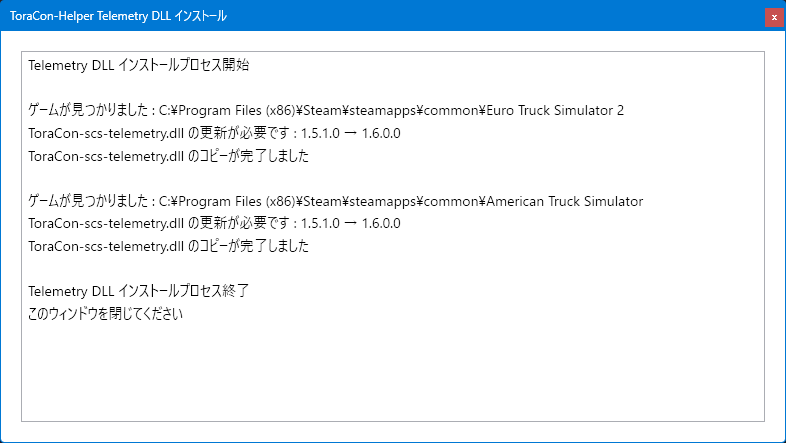
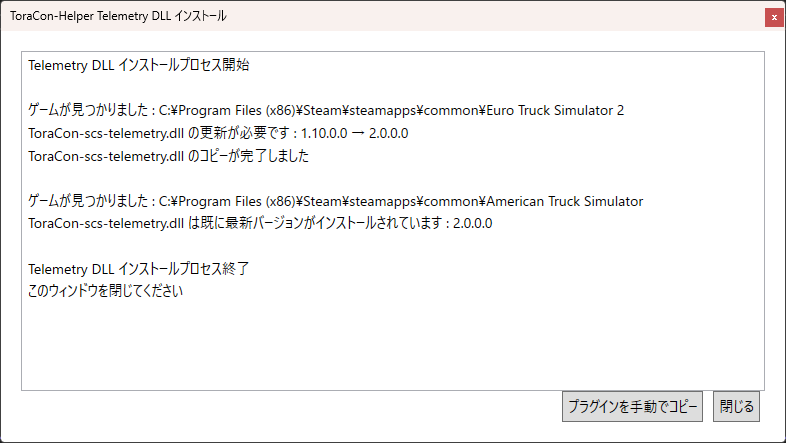
プラグインインストール画面に「ブラグインを手動でコピー」及び「閉じる」ボタンを追加 (#78)

diff --git a/ToraConHelper/Installer/InstallerWindow.xaml b/ToraConHelper/Installer/InstallerWindow.xaml
@@ -11,7 +11,21 @@
     Height="450"
     FontSize="14"
     mc:Ignorable="d">
+    <Window.Resources>
+        <Style TargetType="Button">
+            <Setter Property="Margin" Value="5,0" />
+            <Setter Property="Padding" Value="5"/>
+        </Style>
+    </Window.Resources>
     <Grid Margin="20">
-        <ListBox ItemsSource="{Binding .}" />
+        <Grid.RowDefinitions>
+            <RowDefinition Height="*" />
+            <RowDefinition Height="Auto" />
+        </Grid.RowDefinitions>
+        <ListBox ItemsSource="{Binding .}" Grid.Row="0" />
+        <StackPanel Orientation="Horizontal" HorizontalAlignment="Right" Grid.Row="1">
+            <Button Content="プラグインを手動でコピー" x:Name="pluginFolderButton" Click="pluginFolderButton_Click"/>
+            <Button Content="閉じる" x:Name="closeButton" Click="closeButton_Click"/>
+        </StackPanel>
     </Grid>
 </Window>

diff --git a/ToraConHelper/Installer/InstallerWindow.xaml.cs b/ToraConHelper/Installer/InstallerWindow.xaml.cs
@@ -1,5 +1,7 @@
 using System;
 using System.Collections.ObjectModel;
+using System.Diagnostics;
+using System.IO;
 using System.Threading.Tasks;
 using System.Windows;
 using System.Windows.Threading;
@@ -38,6 +40,11 @@ public partial class InstallerWindow
             messages.Add(e.Message);
         }));
     }
+
+    private void closeButton_Click(object sender, RoutedEventArgs e) => Close();
+
+    private void pluginFolderButton_Click(object sender, RoutedEventArgs e)
+        => Process.Start(Path.Combine(AppDomain.CurrentDomain.BaseDirectory, Path.GetDirectoryName(PluginInstaller.SourcePath)));
 }
 public partial class PluginApp : Application
 {

diff --git a/ToraConHelper/Installer/PluginInstaller.cs b/ToraConHelper/Installer/PluginInstaller.cs
@@ -9,7 +9,7 @@ internal class PluginInstaller
 {
     const string PluginPath = "plugins";
     const string PluginFile = "ToraCon-scs-telemetry.dll";
-    const string SourcePath = $".\\plugins\\win_x64\\{PluginFile}";
+    internal const string SourcePath = $".\\plugins\\win_x64\\{PluginFile}";
 
     internal event EventHandler<AddMessageEventArgs>? AddMessageFromInstaller;
 

diff --git a/README.md b/README.md
@@ -1,4 +1,4 @@
-# ToraCon-Helper [![Downloads](https://img.shields.io/github/downloads/kuramochia/ToraCon-Helper/total)](https://github.com/kuramochia/ToraCon-Helper/releases) [![Current Release](https://img.shields.io/github/release/kuramochia/ToraCon-Helper)](https://github.com/kuramochia/ToraCon-Helper/releases) [![Licensed under the MIT License](https://img.shields.io/badge/license-MIT-blue.svg)](https://github.com/kuramochia/ToraCon-Helper/blob/master/LICENSE)
+# ToraCon-Helper [![Current Release](https://img.shields.io/github/release/kuramochia/ToraCon-Helper)](https://github.com/kuramochia/ToraCon-Helper/releases) [![Licensed under the MIT License](https://img.shields.io/badge/license-MIT-blue.svg)](https://github.com/kuramochia/ToraCon-Helper/blob/master/LICENSE)
 
 ## なにこれ？
 [HORI Force Feedback Truck Control System for Windows® PC（通称「トラコン」）](https://hori.jp/products/hpc/hpc-044/) を ETS2/ATS でちょっと便利にするためのヘルパーアプリです。
@@ -21,10 +21,10 @@ ETS2/ATS の [Telemetry SDK](https://modding.scssoft.com/wiki/Documentation/Engi
     * Telemetry DLL が x64 版のみ提供しているので、x86 でゲームされている方は利用できません。
 
 ## セットアップ方法
-1. 下記のリンクをクリックし、Microsoft Store からToraCon-Helper をダウンロード、インストールしてください。
+1. 下記のリンクをクリックし、Microsoft Store から ToraCon-Helper をダウンロード、インストールしてください。
 
 <a href="https://apps.microsoft.com/detail/9n2vdmrmjw1s?referrer=appbadge&mode=direct">
-	<img src="https://get.microsoft.com/images/en-us%20dark.svg" width="200"/>
+	<img src="https://get.microsoft.com/images/en-us%20dark.svg" width="400"/>
 </a>
 
 2. `ToraCon-Helper` を起動します。
@@ -34,10 +34,10 @@ ETS2/ATS の [Telemetry SDK](https://modding.scssoft.com/wiki/Documentation/Engi
 
 ![](images/TelemetryDllInstallDialog.png)
 
-4. Telemetry DLL のインストールプロセスは、次のようなウィンドウが表示されます。エラーが無ければ、DLL のコピーは終了です。右上の × ボタンで閉じてください。
+4. Telemetry DLL のインストールプロセスは、次のようなウィンドウが表示されます。エラーが無ければ、DLL のコピーは終了です。右下の「閉じる」ボタンで閉じてください。
   * もし、__「エラーが発生しました」__ と表示された場合は、表示内容と一緒に [Issues](https://github.com/kuramochia/ToraCon-Helper/issues) へお願いします。
-  * Telemetry DLL を手動でインストールする場合は、`plugins` フォルダ配下に DLL があります。
-
+  * Telemetry DLL を手動でインストールする場合は、「プラグインを手動でコピー」ボタンを押し、表示された `ToraCon-scs-telemetry.dll` を ETS2/ATS のインストールフォルダ (例: Euro Truck Simulator 2\bin\win_x64\plugins) にコピーしてください。
+  
 ![](images/TelemetryDllInstallWindow.png)
 
 5. アプリ本体は次のような画面が表示されます。
